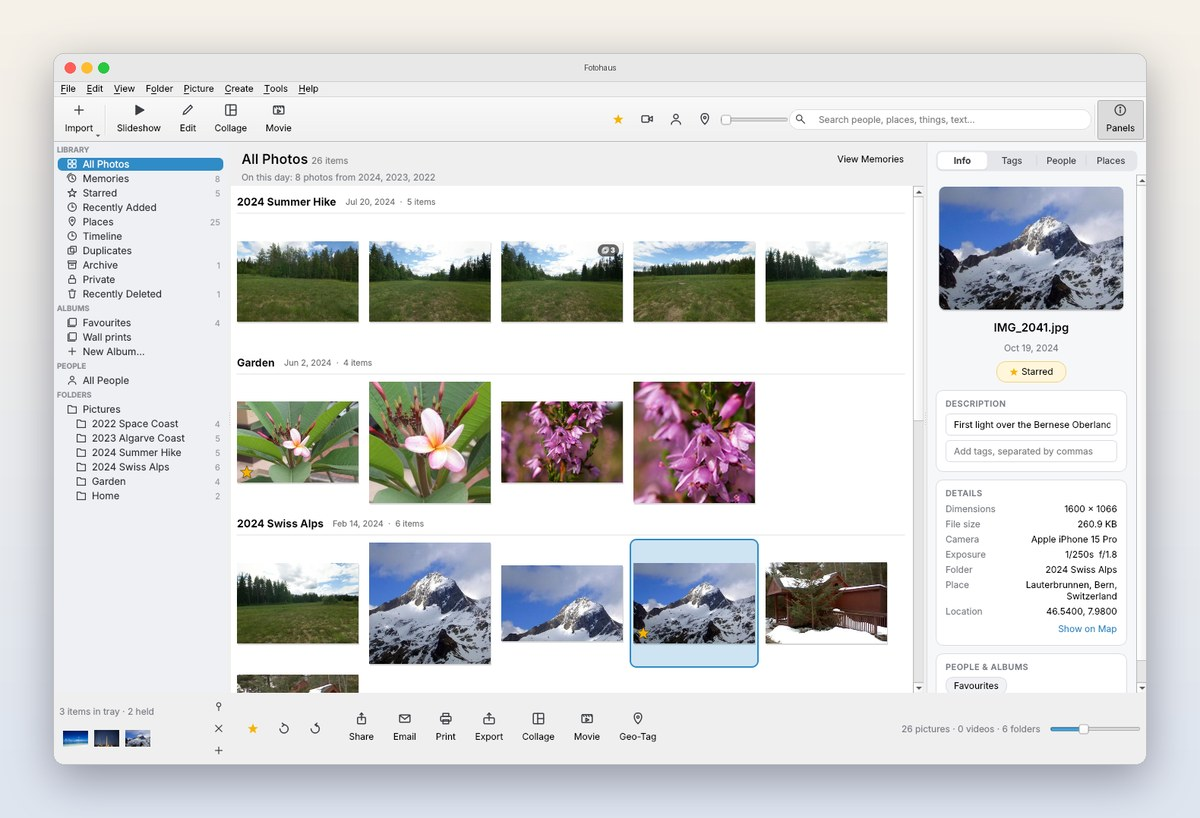
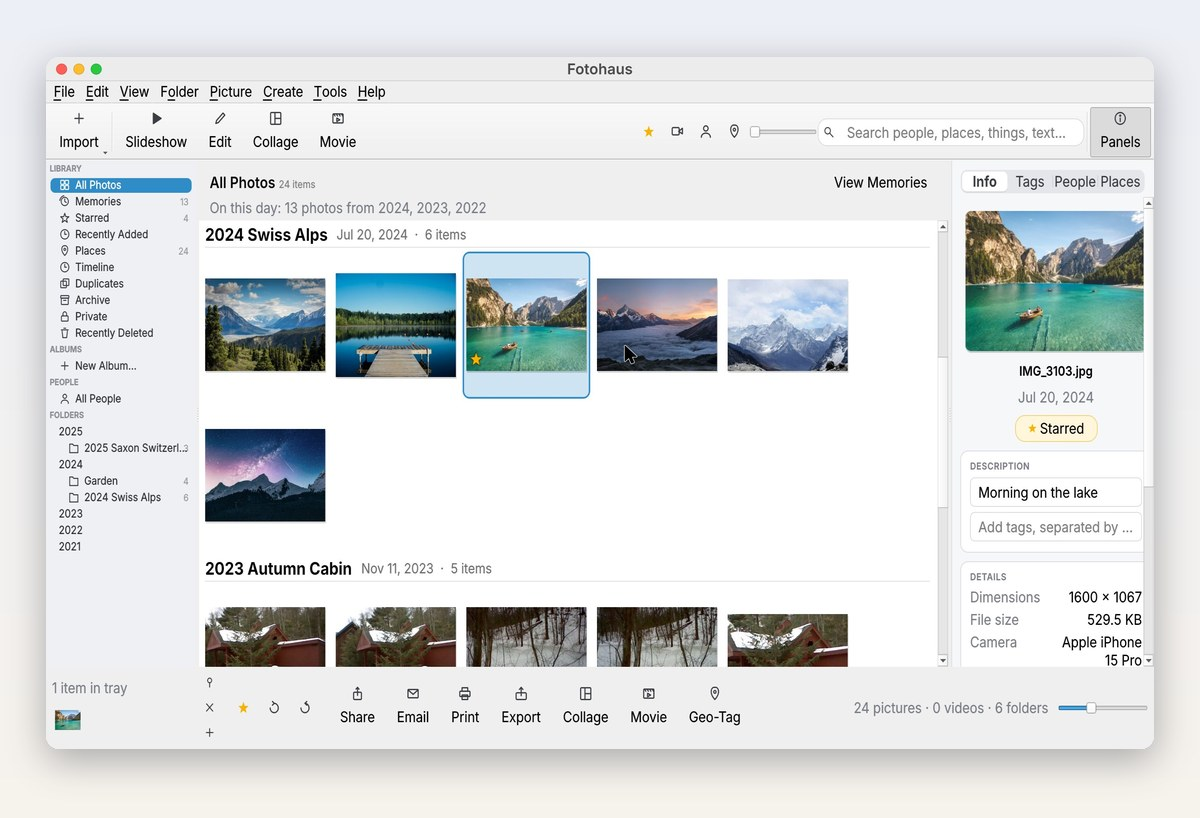
README: Windows and Linux, new sample photos

diff --git a/README.md b/README.md
@@ -2,12 +2,14 @@
 
 # Fotohaus
 
-**Your photos. Your Mac. Nobody else's business.**
+**Your photos. Your computer. Nobody else's business.**
 
-A fast, private photo organizer for macOS that finds faces, reads text in photos, edits without
-touching your originals, and never uploads a single pixel.
+A fast, private photo viewer and organizer for **Mac, Windows and Linux** that finds faces,
+searches your photos, edits without touching your originals, and never uploads a single pixel.
 
 [![macOS](https://img.shields.io/badge/macOS%2014%2B-Apple%20Silicon-black?logo=apple)](#install)
+[![Windows](https://img.shields.io/badge/Windows-10%20%7C%2011-0078D4)](#install)
+[![Linux](https://img.shields.io/badge/Linux-AppImage-FCC624?logo=linux&logoColor=black)](#install)
 [![License: GPL v3](https://img.shields.io/badge/license-GPL--3.0--or--later-blue)](LICENSE)
 [![Buy Me a Coffee](https://img.shields.io/badge/Buy%20me%20a%20coffee-%E2%98%95-FFDD00?logo=buymeacoffee&logoColor=black)](https://buymeacoffee.com/aelnagish)
 
@@ -21,24 +23,26 @@ touching your originals, and never uploads a single pixel.
 
 *Fotohaus*: one home for every picture you've ever taken.
 
-Point it at the folders already on your Mac, and in a few minutes years of photos are sorted,
+Point it at the folders already on your computer, and in a few minutes years of photos are sorted,
 searchable and easy to show off. Nothing is copied into a hidden library and nothing leaves your
 computer. Your files stay exactly where they are.
 
 ## Why Fotohaus
 
-- **Private by design.** Face recognition, search and editing all run on your Mac. No account,
-  no cloud, no tracking.
+- **Private by design.** Face recognition, search and editing all run on your computer. No
+  account, no cloud, no tracking.
 - **Your folders, untouched.** No import into a hidden library. Fotohaus works on the folders you
   already have, and every edit is reversible.
-- **Fast.** Open a photo from Finder and it appears instantly over your desktop, with the rest of
-  the folder one arrow key away.
+- **Fast.** Open a photo from Finder or File Explorer and it appears instantly over your desktop,
+  with the rest of the folder one arrow key away.
 - **Clever where it counts.** Search for "dog on the beach", "receipt" or a friend's name and get
   answers, not filenames.
+- **One app, three systems.** The same Fotohaus runs on Mac, Windows and Linux, so your library
+  habits move with you.
 
 ## Flip through a folder in a blink
 
-Double-click any photo in Finder and it opens instantly over your desktop. Then just press
+Double-click any photo in Finder or File Explorer and it opens instantly over your desktop. Then just press
 **←** and **→** to glide through every other photo in the same folder. No importing, no waiting,
 no library to set up first. Zoom with the scroll wheel, star or rotate as you go, and press
 **Esc** to get back to what you were doing.
@@ -52,7 +56,7 @@ no library to set up first. Zoom with the scroll wheel, star or rotate as you go
 Each day Fotohaus looks back through your library for pictures taken on today's date in
 earlier years, and gathers them into **Memories**: "2 years ago", "3 years ago", ready to play as a
 slideshow. Each photo also knows where it was taken ("Lauterbrunnen, Bern, Switzerland"), worked out
-on your Mac from a built-in atlas, so you can simply search for a town.
+on your computer from a built-in atlas, so you can simply search for a town.
 
 <div align="center">
 <img src="docs/memories.jpg" alt="Fotohaus Memories: photos from this day two, three and four years ago, with the place shown in the info panel" width="100%">
@@ -61,23 +65,24 @@ on your Mac from a built-in atlas, so you can simply search for a town.
 ## Some photos are just for you
 
 Select pictures and choose **Move to Private**. They vanish from the library, search, Memories,
-People and Places, and the **Private** collection opens only with **Touch ID** (or your Mac
-password). It locks again when you quit.
+People and Places, and the **Private** collection opens only with **Touch ID** on a Mac,
+**Windows Hello** on Windows, or a password you set on Linux. It locks again when you quit.
 
 Two quieter places help keep the library tidy:
 
 - **Archive** tucks away screenshots, receipts and the photos you want to keep but not see every
   day. They stay on disk and come back with one click.
 - **Recently Deleted** holds anything you delete in the library for **30 days**, so a slip of the
-  finger is never final. Only then do files move to the Mac's Trash. (In the Photo Viewer, Delete
-  sends the photo straight to the Trash, like Picasa, with a moment to **Undo**.)
+  finger is never final. Only then do files move to the Trash (the Recycle Bin on Windows). In the
+  Photo Viewer, Delete sends the photo straight there, with a moment to **Undo**.
 
 ## Find anyone, and anything
 
-Name a face once and Fotohaus suggests the same person across the years, all on your Mac. Search
-understands people, places, tags and dates (`person:anna place:zermatt year:2019`), the objects and
-scenes in a photo ("dog", "beach"), and even the **words in it**: type "invoice" or a street sign
-and find the picture.
+Name a face once and Fotohaus suggests the same person across the years, all on your computer.
+Search understands people, places, tags and dates (`person:anna place:zermatt year:2019`) and,
+with the optional search model, plain descriptions like "kids playing in the snow". On a Mac it
+also knows the objects and scenes in a photo ("dog", "beach") and the **words in it**: type
+"invoice" or a street sign and find the picture.
 
 ## Bursts, RAW pairs and Live Photos, tidied up
 
@@ -85,11 +90,11 @@ A burst of twelve near-identical shots, the RAW and JPEG of the same moment, the
 behind an iPhone Live Photo: Fotohaus folds each into one **stack** with a small badge, so the
 library shows moments, not clutter. Open a Live Photo and press **L** to see it move.
 
-## Coming from Picasa?
+## Bring your old library along
 
-Point Fotohaus at your old Picasa folders and your stars, captions, albums, face tags and edits
-are there, read straight from the `.picasa.ini` files Picasa left behind. Fotohaus keeps writing
-them, so nothing is locked in.
+Have folders an older photo organizer has looked after for years? Fotohaus reads the `.picasa.ini`
+files sitting next to your photos, so your stars, captions, albums, face tags and edits come
+straight back. It keeps writing them too, so nothing is locked in.
 
 ## What it does
 
@@ -112,8 +117,8 @@ them, so nothing is locked in.
 
 ### Find
 - **Faces**: on-device detection and recognition. Name someone once and Fotohaus suggests the rest
-- **Smart search** for objects, scenes and text inside photos, using Apple's on-device Vision
-- Optional natural-language search ("kids playing in the snow")
+- Optional natural-language search ("kids playing in the snow"), on every system
+- **Smart search** for objects, scenes and text inside photos (Mac, using Apple's on-device Vision)
 - Duplicate and near-duplicate finder that keeps the best copy
 - Nested tags like `Trips/2024/Alps`, browsable as a tree
 
@@ -135,7 +140,7 @@ them, so nothing is locked in.
 ### Share and create
 - Collages (six styles), slideshows, and **movies with music**
 - Posters, contact sheets, passport photos, and print or PDF
-- Web gallery export, map export, email and the macOS Share menu
+- Web gallery export, map export, email, and the Share menu on a Mac
 - Backups to any drive, with incremental updates and restore
 
 </td>
@@ -155,7 +160,17 @@ and `fotohaus-cli mcp` lets AI assistants that support MCP search and organize y
 
 ## Install
 
-Fotohaus runs on Apple Silicon Macs (M1 or newer) with macOS 14 Sonoma or newer.
+Download the latest version from [Releases](../../releases/latest). The step-by-step guide for each
+system, including the command line, the Claude (MCP) setup and how to uninstall, is in
+[INSTALL.md](INSTALL.md).
+
+| System | Download | Needs |
+|---|---|---|
+| **Mac** | `Fotohaus-1.0.2-arm64.dmg` | Apple Silicon (M1 or newer), macOS 14 Sonoma or newer |
+| **Windows** | `Fotohaus-1.0.2-Setup.exe` | 64-bit Windows 10 or 11 |
+| **Linux** | `Fotohaus-1.0.2-x86_64.AppImage` | 64-bit, glibc 2.28 or newer (Ubuntu 20.04, Debian 10, Fedora 29 and later) |
+
+### Mac
 
 **With Homebrew** (opens without the first-launch warning, and adds `fotohaus-cli`):
 
@@ -163,29 +178,31 @@ Fotohaus runs on Apple Silicon Macs (M1 or newer) with macOS 14 Sonoma or newer.
 brew install --cask aelnagish/tap/fotohaus
 ```
 
-> [!IMPORTANT]
-> **macOS says "Fotohaus is damaged and can't be opened"?** Click **Cancel**, not *Move to Trash*.
-> Nothing is wrong with the app: macOS says this about every app from the internet that Apple
-> hasn't notarized yet. Open **Terminal** (⌘ Space, type *Terminal*, press Return), run this once,
-> then open Fotohaus again:
->
-> ```bash
-> xattr -cr /Applications/Fotohaus.app
-> ```
+**Or from the disk image:** open it and drag **Fotohaus** into **Applications**. Fotohaus isn't
+notarized by Apple yet, so macOS blocks it the first time:
 
-**Or download it yourself:**
+- If macOS says it **"is damaged and can't be opened"**, click *Cancel* (not *Move to Trash*).
+  Nothing is wrong with the app. Open **Terminal**, run this once, then open Fotohaus again:
 
-1. Download `Fotohaus-1.0.2-arm64.dmg` from [Releases](../../releases).
-2. Open the disk image and drag **Fotohaus** into **Applications**.
-3. Open Fotohaus. It isn't notarized by Apple yet, so macOS blocks it the first time:
-   - If macOS says it **"is damaged and can't be opened"**, click *Cancel* and run the one-line
-     fix in the box above.
-   - If it says it **"could not verify"** Fotohaus, open *System Settings ▸ Privacy & Security*,
-     scroll down and click **Open Anyway** next to the message about Fotohaus.
-4. To open photos in Fotohaus when you double-click them, use *Tools ▸ Options ▸ Photo Viewer*.
+  ```bash
+  xattr -cr /Applications/Fotohaus.app
+  ```
 
-The full guide, including the command line, the Claude (MCP) setup and how to uninstall, is in
-[INSTALL.md](INSTALL.md).
+- If it says it **"could not verify"** Fotohaus, open *System Settings ▸ Privacy & Security*,
+  scroll down and click **Open Anyway**.
+
+### Windows
+
+Run the installer. It needs no administrator rights. Until the installer is code-signed, Windows
+shows **"Windows protected your PC"** the first time: click **More info**, then **Run anyway**.
+
+### Linux
+
+Make the AppImage executable (`chmod +x Fotohaus-*.AppImage`, or *Properties ▸ Allow executing as
+program*) and double-click it.
+
+To open photos in Fotohaus when you double-click them, on any system, use
+*Tools ▸ Options ▸ Photo Viewer*.
 
 ### Run from source
 
@@ -198,10 +215,12 @@ python -m fotohaus            # app
 python -m fotohaus.cli --help # command line
 ```
 
-Your library database lives in `~/Library/Application Support/Fotohaus` (set `FOTOHAUS_HOME` to use
-a different place). Run the tests with `pip install -r requirements-dev.txt`, then `python tests/test_fotohaus.py` and
-`python tests/test_review.py`. To build the app and disk
-image, see `packaging/build_mac_app.py`.
+Python 3.11 or newer (3.12 is what the builds use) works on all three systems (on Windows, use `py -m venv .venv` and
+`.venv\Scripts\activate`). The library database lives in `~/Library/Application Support/Fotohaus`
+on a Mac, `%LOCALAPPDATA%\Fotohaus` on Windows and `~/.local/share/fotohaus` on Linux (set
+`FOTOHAUS_HOME` to use a different place). Run the tests with `pip install -r requirements-dev.txt`, then `python tests/test_fotohaus.py` and
+`python tests/test_review.py`. To build the apps yourself, see
+`packaging/build_mac_app.py`, `packaging/build_windows.py` and `packaging/build_linux.py`.
 
 ## Support
 
@@ -217,10 +236,17 @@ Fotohaus is free software, licensed under the **GNU General Public License, vers
 (see [LICENSE](LICENSE)). You may use, study, share and change it; if you distribute it, modified
 or not, you must pass on the same freedoms and the source code. Copyright © 2026 Abdullah Yusuf.
 
-The app bundles third-party components under their own licenses, listed in
-[`packaging/THIRD_PARTY_NOTICES.md`](packaging/THIRD_PARTY_NOTICES.md). The source code of the
-GPL libraries inside the app (FFmpeg, x264, x265) is attached to each release as
+The apps bundle third-party software and data under their own licenses, listed in
+[`packaging/THIRD_PARTY_NOTICES.md`](packaging/THIRD_PARTY_NOTICES.md) and in the Licenses folder
+that comes with each app. Among them: place names from [GeoNames](https://www.geonames.org)
+(CC BY 4.0), map tiles from [OpenStreetMap](https://www.openstreetmap.org/copyright) contributors,
+and face models from [OpenCV Zoo](https://github.com/opencv/opencv_zoo). The source code of the GPL
+libraries inside the apps (such as FFmpeg, x264 and x265) is attached to each release as
 `fotohaus-1.0.2-gpl-sources.tar`.
 
-<sub>Screenshots use freely licensed sample images from the scikit-image, imageio and Pillow
-projects. Fotohaus is an independent project.</sub>
+Fotohaus is an independent project and is not affiliated with or endorsed by Apple, Google or
+Microsoft. All product names mentioned are trademarks of their owners.
+
+<sub>Screenshots and the demo use sample images from the imageio and Pillow projects and landscape
+photos from [Unsplash](https://unsplash.com), used under the
+[Unsplash License](https://unsplash.com/license).</sub>

diff --git a/INSTALL.md b/INSTALL.md
@@ -1,6 +1,9 @@
 # Installing Fotohaus
 
-Fotohaus runs on Macs with Apple Silicon (M1 or newer) and macOS 14 Sonoma or newer.
+Fotohaus runs on Mac, Windows and Linux. This guide starts with the Mac; [Windows](#windows) and
+[Linux](#linux) have their own sections below.
+
+On a Mac, Fotohaus needs Apple Silicon (M1 or newer) and macOS 14 Sonoma or newer.
 
 ## Install
 
@@ -70,7 +73,7 @@ To let Claude Desktop (or another MCP client) search and organize your library, 
 
 Drag Fotohaus from Applications to the Trash. To remove its library too, delete
 `~/Library/Application Support/Fotohaus` and `~/Library/Caches/Fotohaus`. Your photos are not
-affected. (Picasa-style `.picasa.ini` files Fotohaus wrote next to your photos are harmless and can
+affected. (`.picasa.ini` files Fotohaus wrote next to your photos are harmless and can
 stay.)
 
 ## Windows
@@ -116,4 +119,6 @@ Debian 10, Fedora 29 and later).
 ## License
 
 Fotohaus is free software under the GNU GPL, version 3 or later, and comes with no warranty.
-Third-party licenses are in `Fotohaus.app/Contents/Resources/Licenses`.
+Third-party licenses are in the Licenses folder that comes with the app
+(`Fotohaus.app/Contents/Resources/Licenses` on a Mac, the install folder on Windows, inside the
+AppImage on Linux).
